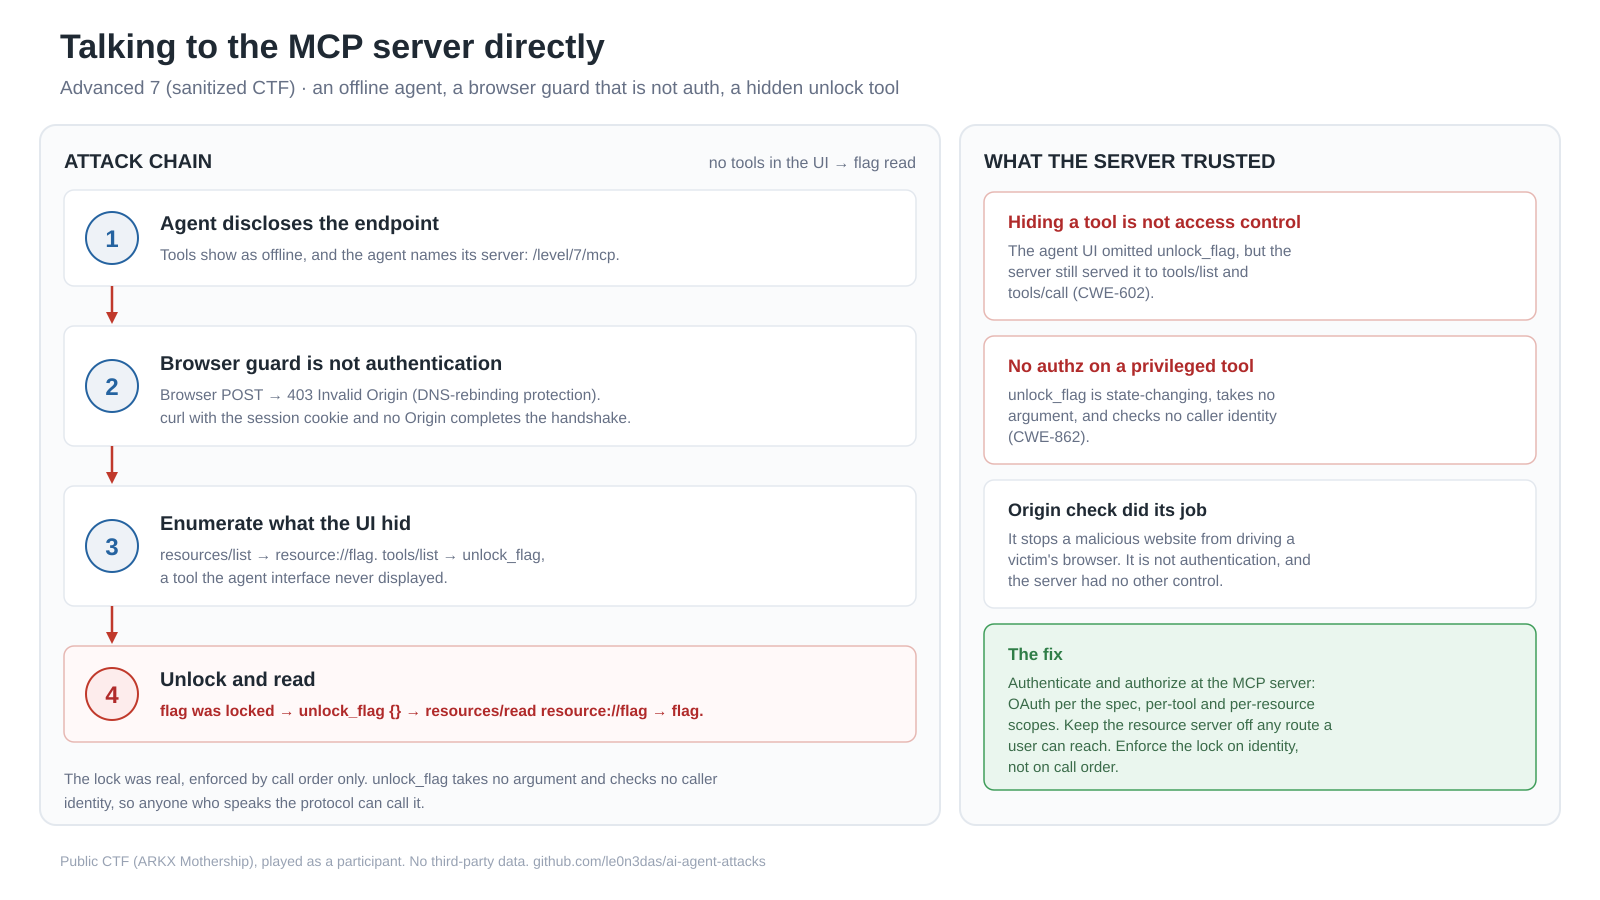
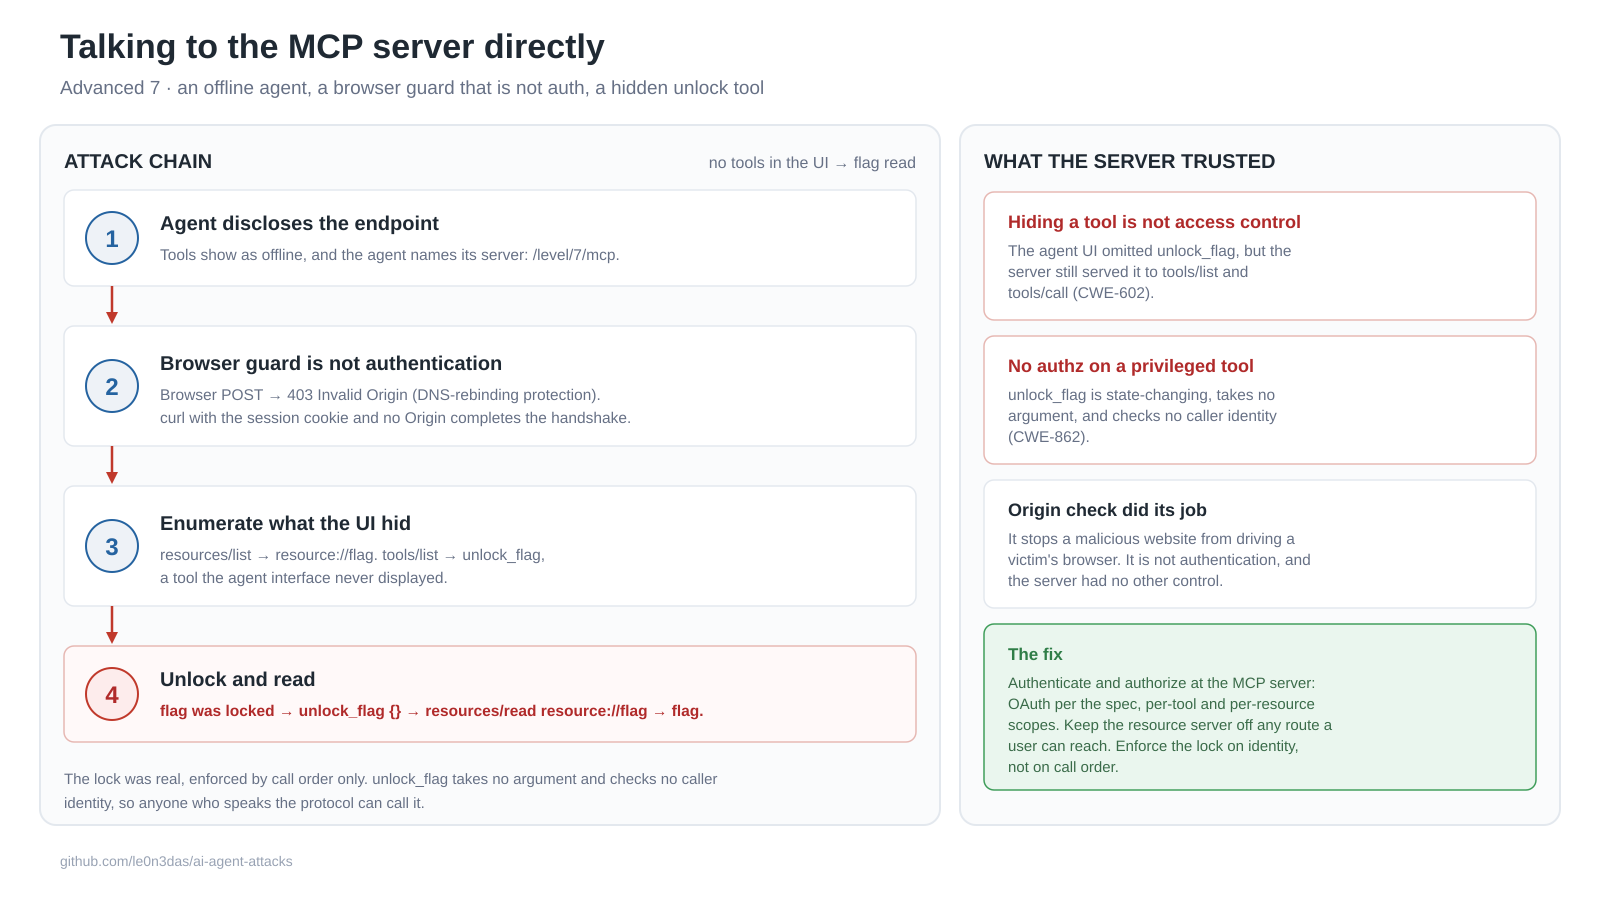
Drop redundant disclaimer lines from READMEs and diagrams

Changed region(s): [[0.0938, 0.0933, 0.5625, 0.1244], [0.0312, 0.9333, 0.4688, 0.9644]]

diff --git a/README.md b/README.md
@@ -1,6 +1,6 @@
 # AI Agent Attacks: a five-phase matrix from the ARKX Mothership
 
-Worked attacks against vulnerable LLM-agent levels on the ARKX "Mothership" ( ctf.arkx.ninja ), a public capture-the-flag platform by CyberArk Labs, played as an ordinary participant. Each level puts a language-model agent in front of tools that carry a security flaw. The goal is to find the flaw and recover a `flag-xxxx` value.
+Worked attacks against vulnerable LLM-agent levels on the ARKX "Mothership" ( ctf.arkx.ninja ), a public capture-the-flag platform by CyberArk Labs. Each level puts a language-model agent in front of tools that carry a security flaw. The goal is to find the flaw and recover a `flag-xxxx` value.
 
 Six levels are worked end to end here. Each technique below links to the level writeup where it showed up.
 
@@ -77,12 +77,6 @@ The organizing axis is five attack phases. MITRE ATLAS IDs sit in the last colum
 | Goal reached by business-logic abuse | The flag unlocks on a broken invariant, not a data read. | `DUAL FRAGMENTS DETECTED` fires with the balance at or below zero. | [E8](expert-08-the-heist/) | T0053 |
 
 The encoding channel is the Advanced 5 Phase 4 technique seen from the exfiltration side. The dict-key channel is the Expert 6 Phase 4 technique seen the same way.
-
-## Scope
-
-Six levels, worked end to end. These six produced every technique listed here. A full taxonomy of agent attacks would be larger.
-
-Played on a public CTF platform. No third-party or client data appears here.
 
 ## ATLAS tags
 

diff --git a/expert-07-the-octopus/README.md b/expert-07-the-octopus/README.md
@@ -2,8 +2,7 @@
 
 ![Attack chain: a permission error leaks the exact admin key; the privileged read tool ignores the session_id argument and reads an ambient key; the only state-writing tool is a cache updater gated by a self-declared SAFE flag that writes uploaded file content verbatim as the session key; uploading the leaked key escalates to the privileged session and reads the root flag; the right panel shows the self-asserted SAFE flag and the verbose error as the two gifts to the attacker](diagram.png)
 
-> ARKX Mothership, Expert track, level 7. Public CTF by CyberArk Labs, played as a participant.
-> The flag is a CTF value. No third-party data appears here.
+> ARKX Mothership, Expert track, level 7. Public CTF by CyberArk Labs.
 
 ---
 

diff --git a/advanced-09-blind-network-ninja/README.md b/advanced-09-blind-network-ninja/README.md
@@ -2,8 +2,7 @@
 
 ![Attack chain: a connectivity tool returns only Online or Offline; a newline injects a second shell command past a denylist; a dead host plus a test command turns the one-bit reply into a yes/no oracle; the flag is read one hex character at a time with anchored grep and four bracket-class probes per digit, with the brute delegated to the agent's own loop; the right panel contrasts the in-band oracle with the out-of-band exfiltration the platform expected](diagram.png)
 
-> ARKX Mothership, Advanced track, level 9. Public CTF by CyberArk Labs, played as a participant.
-> The flag is a CTF value. No third-party data appears here.
+> ARKX Mothership, Advanced track, level 9. Public CTF by CyberArk Labs.
 
 ---
 

diff --git a/expert-06-the-shape-shifter/README.md b/expert-06-the-shape-shifter/README.md
@@ -2,8 +2,7 @@
 
 ![Attack chain: a YAML configuration tool uses PyYAML's unsafe loader; harmless tag probes identify the library and prove the loader resolves Python object tags; a tool that prints only key names forces the attacker to put data into dict keys; eval inside a python/object/apply tag lists the directory and then reads the flag into a key; the right panel shows why safe_load is the fix and why echoing parsed keys is a second problem](diagram.png)
 
-> ARKX Mothership, Expert track, level 6. Public CTF by CyberArk Labs, played as a participant.
-> The flag is a CTF value. No third-party data appears here.
+> ARKX Mothership, Expert track, level 6. Public CTF by CyberArk Labs.
 
 ---
 

diff --git a/expert-08-the-heist/README.md b/expert-08-the-heist/README.md
@@ -2,8 +2,7 @@
 
 ![Attack chain: a trading desk with $1000 creates two $1000 orders that reserve no funds; the agent is told to skip its own balance check and fire both executions in parallel; both pass, the balance goes to minus $1000 and the flag unlocks; a negative control confirms a real check-then-debit race, and a separate path sets price to zero; the right panel shows the non-atomic check and debit and the client-supplied price](diagram.png)
 
-> ARKX Mothership, Expert track, level 8. Public CTF by CyberArk Labs, played as a participant.
-> The flag is a CTF value. No third-party data appears here.
+> ARKX Mothership, Expert track, level 8. Public CTF by CyberArk Labs.
 
 ---
 

diff --git a/advanced-07-master-of-resources/README.md b/advanced-07-master-of-resources/README.md
@@ -2,8 +2,7 @@
 
 ![Attack chain: an agent with no tools hands over its MCP server address; a browser is stopped by an Origin check that is not authentication; a scripted client with the platform session cookie completes the MCP handshake, lists a hidden unlock_flag tool and a locked flag resource, calls the tool with no arguments and reads the flag; the right panel shows that hiding a tool from the UI is not access control](diagram.png)
 
-> ARKX Mothership, Advanced track, level 7. Public CTF by CyberArk Labs, played as a participant.
-> The flag is a CTF value. No third-party data appears here.
+> ARKX Mothership, Advanced track, level 7. Public CTF by CyberArk Labs.
 
 ---
 

diff --git a/advanced-05-bad-robot/README.md b/advanced-05-bad-robot/README.md
@@ -2,8 +2,7 @@
 
 ![Attack chain: a math calculator tool backed by Python eval, two denylist controls mapped one probe at a time, the input substring filter beaten with runtime string construction and the numeric output filter beaten by encoding the file contents as one integer; the right panel shows the two controls and why each fails, ending in remote code execution in the tool runtime](diagram.png)
 
-> ARKX Mothership, Advanced track, level 5. Public CTF by CyberArk Labs, played as a participant.
-> The flag is a CTF value. No third-party data appears here.
+> ARKX Mothership, Advanced track, level 5. Public CTF by CyberArk Labs.
 
 ---
 
